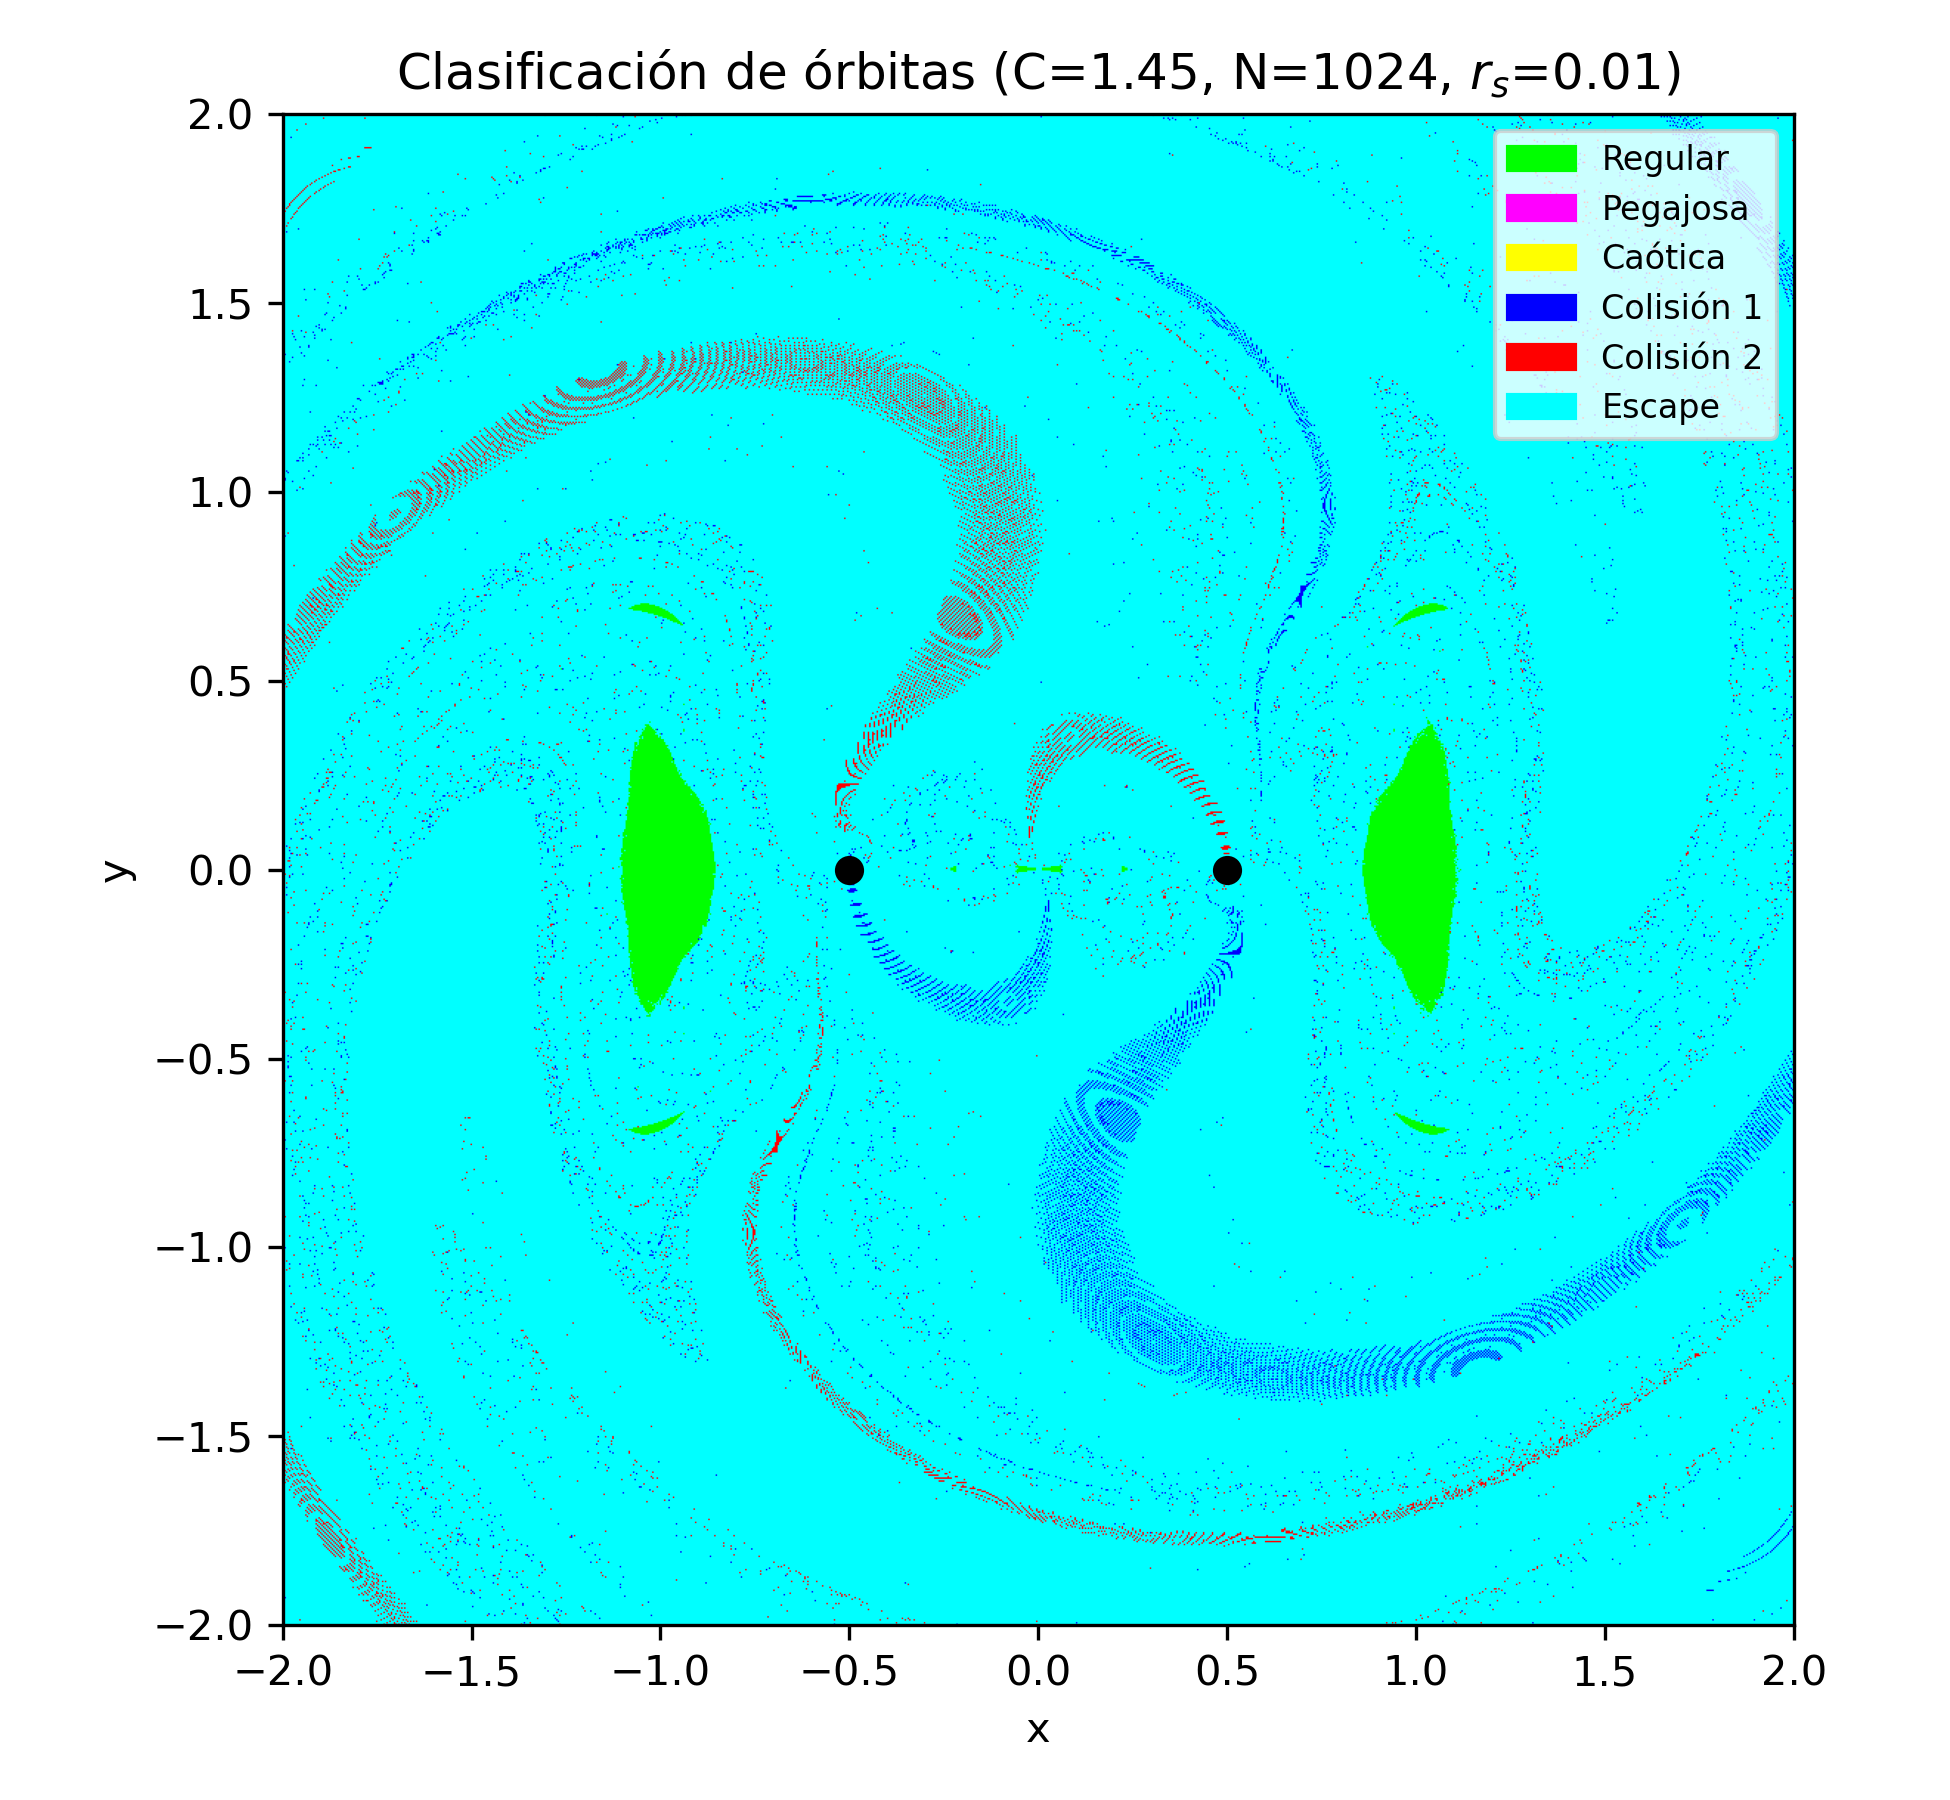
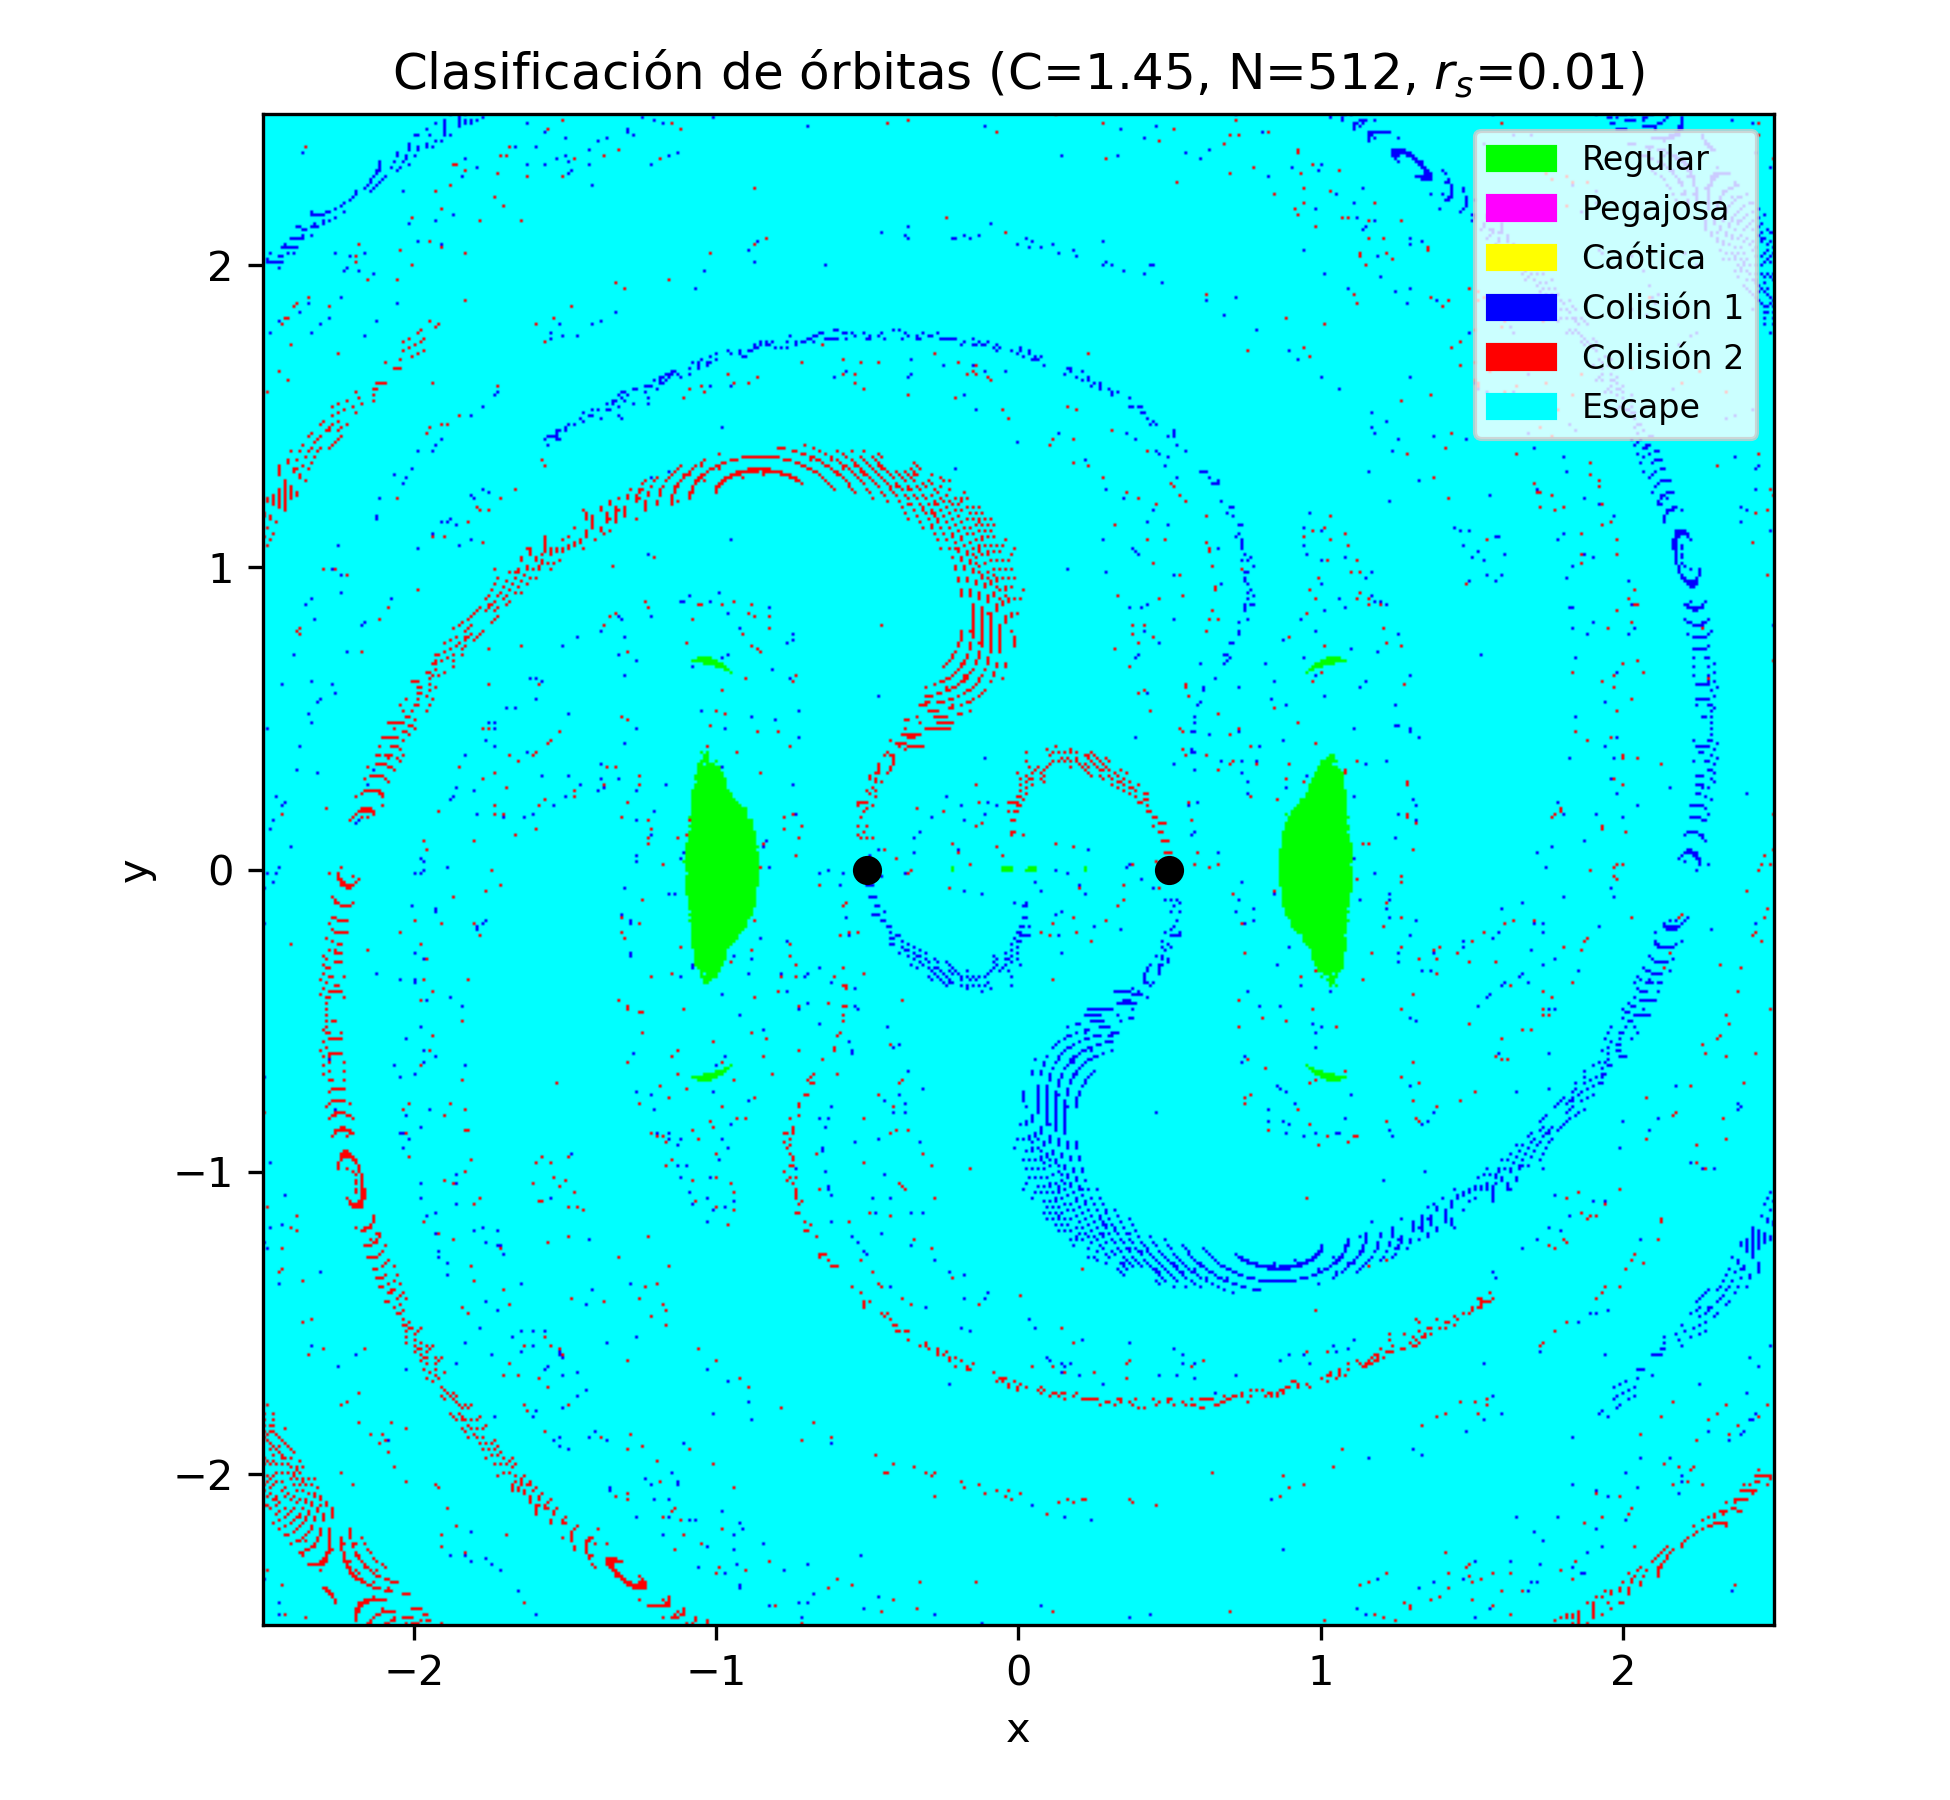
Versión con numba mayoritariamente correcta

diff --git a/Orbit-Numba.py b/Orbit-Numba.py
@@ -7,11 +7,11 @@ import math
 mu = 0.5                    # masa relativa de los agujeros (igual masa implica mu=0.5)
 x1, y1 = -0.5, 0.0          # posición de BH1
 x2, y2 =  0.5, 0.0          # posición de BH2
-r_s = 0.01                  # radio de Schwarzschild (p.ej., 0.01)
+r_s = 10e-2                  # radio de Schwarzschild (p.ej., 0.01)
 C = 3.6                     # constante de Jacobi (energia)
-x_min, x_max = -2.0, 2.0    # rango en x
-y_min, y_max = -2.0, 2.0    # rango en y
-N = 128                     # resolución de la grilla
+x_min, x_max = -2.5, 2.5    # rango en x
+y_min, y_max = -2.5, 2.5    # rango en y
+N = 512                     # resolución de la grilla
 t_max = 10000.0             # tiempo máximo de integración
 dt = 0.01                   # paso temporal (simétrico simplecítico)
 
